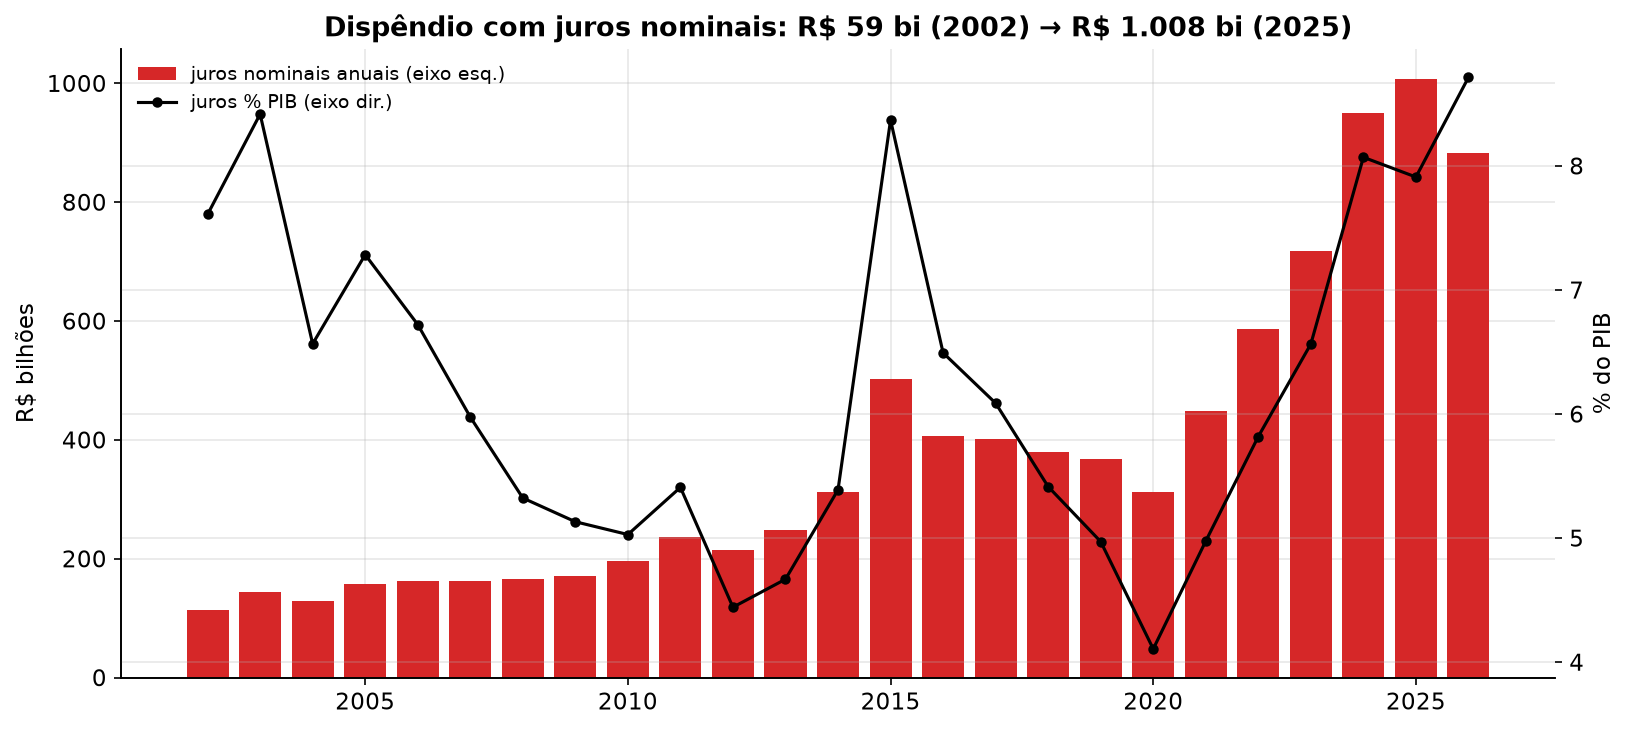
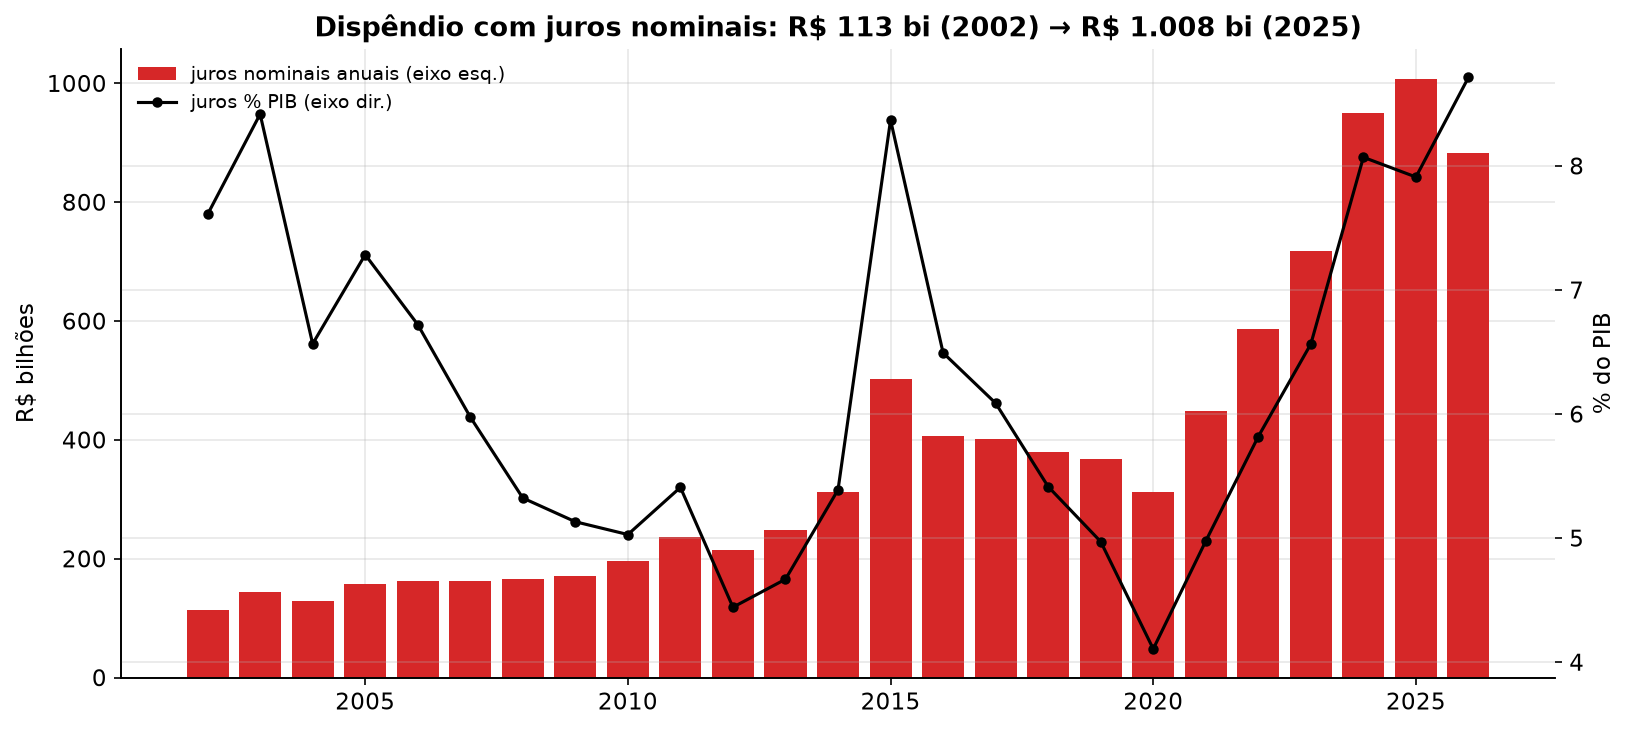
Correções da revisão de IA: identidade da DPF, médias do juro real e números falsos
- Identidade da DPF corrigida para `variação = emissão líquida + juros`
  (notas 6/7 do Anexo 2.9: os resgates já incluem juros pagos): 439 + 880
  = 1.319 bi em 2025 (67% do aumento) e 88% do acumulado 2012–25.
- Juro real ex ante 2024–26 explícito como média ~8,8 p.p. (6,9 → 10,1),
  pico 11,0 em fev/2026; desvio de Taylor como maior entre as janelas
  comparadas, não recorde histórico (MM36: 9,9 em fev/2006).
- 17× → 8,9× (R$ 113 bi → R$ 1.008 bi, título do nb05 calculado de
  juros_mi); swaps 1/3 → 8 dos 18 anos (44%, 2008–25); "2% de juro real
  em 2021" → −0,3% ex ante (média 2019–22: 2,1%); "2–2,2×" → 1,9–3,8×.
- "Melhor resultado nominal desde 2018": janela 2018–2024 (mín. 3,75) →
  não confere; CSV regenerado; 5727/5793 desinvertidos no README.
- nb05 rerodado (só o gráfico do título); nb06/07 intactos.

Changed region(s): [[0.184, 0.0, 0.8282, 0.0603]]

diff --git a/app/app.py b/app/app.py
@@ -407,7 +407,8 @@ elif PAGINA.startswith("P1"):
     st.markdown(
         "A Selic acompanha a inflação **esperada** (Focus), não realizada. O "
         "que é excepcional é a magnitude: juro real ex ante de 2024–2026 em "
-        "~8–9 p.p. com inflação **dentro da meta**."
+        "média ~8,8 p.p. (6,9 em 2024 → 10,1 em 2026), com inflação "
+        "**dentro da meta**."
     )
     st.plotly_chart(fig_selic_inflacao(), use_container_width=True)
     st.plotly_chart(fig_juro_real(), use_container_width=True)
@@ -442,8 +443,9 @@ elif PAGINA.startswith("P3"):
     st.title("P3 · Os juros amortizam a dívida?")
     st.markdown(
         "Identidade dos fatores de variação da DPF (Tesouro, anexo 2.9): "
-        "emissões ≈ resgates + juros — os juros **não amortizam** a dívida; "
-        "**os juros são a dívida nova**."
+        "variação do estoque = emissão líquida + juros — em 2025, R$ 439 bi "
+        "+ R$ 880 bi = R$ 1.319 bi (67% do aumento foram juros). Os juros "
+        "**não amortizam** a dívida; **são a dívida nova**."
     )
     f_ano = st.slider("ano da cascata", 2012, 2025, 2025, key="cascata")
     st.plotly_chart(fig_cascata(f_ano), use_container_width=True)
@@ -505,10 +507,11 @@ elif PAGINA.startswith("P5"):
     )
     st.plotly_chart(fig_juros_swaps(), use_container_width=True)
     st.info(
-        "Um país que praticou **2% de juro real** em 2021 praticou **9%** em "
-        "2025 sem mudança da estrutura produtiva: o patamar é *escolha de "
-        "política*. Quem defende que “não havia alternativa” precisa "
-        "apontar por que ela praticamente inverteu de 2022 para cá."
+        "Em **2021** o juro real ex ante foi **−0,3%** (média 2019–22: 2,1%) "
+        "e em **2025** foi **9,6%**, sem mudança da estrutura produtiva: o "
+        "patamar é *escolha de política*. Quem defende que “não havia "
+        "alternativa” precisa apontar por que ela praticamente inverteu "
+        "de 2022 para cá."
     )
 
 elif PAGINA == "Transparência: lacunas":

diff --git a/src/processa/documentos.py b/src/processa/documentos.py
@@ -654,7 +654,7 @@ def verificacao_febraban() -> pd.DataFrame:
     ipca_dez = ipca[ipca.data.dt.month == 12].set_index("data")["valor"]
     ipca_2025 = float(ipca_dez.loc["2025-12-01"])
     anos = ipca_dez.index.year                      # Index[int], sem .between
-    desde_2019 = ipca_dez[(anos >= 2019) & (anos <= 2024)]
+    desde_2018 = ipca_dez[(anos >= 2018) & (anos <= 2024)]
 
     meta = _serie("meta_selic_copom")
     meta_nota = float(meta[meta.data <= NOTA].valor.iloc[-1])
@@ -673,14 +673,14 @@ def verificacao_febraban() -> pd.DataFrame:
         return {"alegacao": aleg, "artigo": artigo, "nosso_valor": nosso,
                 "unidade": unidade, "fonte_nosso": fonte, "status": status}
 
-    melhor = desde_2019.min() >= ipca_2025
+    melhor = desde_2018.min() >= ipca_2025
     return pd.DataFrame([
         _linha("IPCA 2025 = 4,26%", "4,26", f"{ipca_2025:.2f}",
                "SGS 13522 (dez/2025)",
                "confere (exato)" if abs(ipca_2025 - 4.26) <= 0.01
                else "não confere", "%"),
         _linha("'melhor resultado nominal desde 2018'", "menor desde 2018",
-               f"mín. 2019–2024 = {desde_2019.min():.2f}",
+               f"mín. 2018–2024 = {desde_2018.min():.2f}",
                "SGS 13522 (fechamentos de dezembro)",
                "confere" if melhor else "não confere", "%"),
         _linha("Selic de 15,0% ao ano na nota (12/01/2026)", "15,0",

diff --git a/README.md b/README.md
@@ -21,12 +21,14 @@ ferramenta web de transparência sobre os rendimentos da dívida.
 ### P1 — Os juros altos se justificam? (`notebooks/01_juros_se_justificam.ipynb`)
 - A Selic acompanha a inflação **esperada** (Focus), não a realizada — a direção
   do ciclo não é arbitrária. O que é excepcional é a **magnitude**: juro real
-  ex ante de 2024–2026 em ~8–9 p.p. — nível que historicamente só apareceu com
-  inflação em dois dígitos (2003–04) ou no ajuste pós-2015. Hoje coexiste com
+  ex ante de 2024–2026 em **média de ~8,8 p.p.** (6,9 em 2024 → 10,1 em 2026)
+  — média que desde 2002 só havia sido alcançada em 2002–06, quando a inflação
+  caía de dois dígitos. Hoje coexiste com
   IPCA de ~4,6% — **dentro da meta**.
 - A regra de Taylor simples pediria ~7,5–9% a.a. para Focus ~5%. O **desvio
-  médio 2024–26 (~6,5 p.p.) é o maior de qualquer janela desde 2002**,
-  inclusive maior que o do aperto pós-pandemia (2022–23: 5,2 p.p.).
+  médio 2024–26 (~6,5 p.p.) é o maior entre as janelas comparadas** (2003–14:
+  4,9; 2022–23: 5,2 p.p.), mas **não é recorde histórico**: a MM36 chegou a
+  9,9 p.p. em fev/2006.
 - Atividade (IBC-Br +2–3%) e desemprego em mínimo (5,2–5,3%) não explicam o
   patamar. **Conclusão verificável:** o juro atual é inflação esperada **+
   prêmio institucional adicional** sem contrapeso inflacionário — defender que
@@ -47,11 +49,15 @@ ferramenta web de transparência sobre os rendimentos da dívida.
   STN, foi **negado por sigilo bancário**.
 
 ### P3 — Os juros amortizam a dívida? (`notebooks/03_juros_amortizam.ipynb`)
-- Identidade dos fatores de variação da DPF (Anexo 2.9): `emissões ≈ resgates +
-  juros` — ou seja, **os juros não amortizam a dívida; os juros são a dívida
-  nova**. O juro apropriado de R$ ~880 bi em 2025 virou rolagem, não redução.
-- O dispêndio total gira 2–2,2× o juro apropriado (emissões e resgates) — a
-  máquina de rolagem é muito maior que a dívida nova líquida.
+- Identidade dos fatores de variação da DPF (Anexo 2.9): `variação do estoque =
+  emissão líquida + juros apropriados` — em 2025, R$ 439 bi + R$ 880 bi =
+  R$ 1.319 bi. Os resgates **já incluem os juros pagos** (notas 6 e 7 do
+  anexo), então **os juros não amortizam a dívida; são a dívida nova**: 67% do
+  aumento de 2025 e 88% do acumulado 2012–25 (R$ 5.977 bi dos R$ 6.769 bi)
+  foram juros apropriados.
+- As emissões anuais giram de 1,9 a 3,8× o juro apropriado (2,2× em 2025) e
+  equivalem, em média, a 1,05× os resgates — a máquina de rolagem é muito
+  maior que a dívida nova líquida.
 - O déficit nominal é dominado por juros; o resultado primário é quase neutro
   na maior parte da série.
 
@@ -77,10 +83,11 @@ ferramenta web de transparência sobre os rendimentos da dívida.
   (set/22). O aperto atual começou em **março de 2021** e já estava no
   patamar de hoje em **dez/2022 (8,4%)** — a troca de nível não coincide
   com a troca de mandato.
-- Dispêndio nominal cresceu ~17× entre 2002 e 2025; os saltos de % do PIB
-  ocorrem em 2015–16 e 2024–25, ambos com desvio acima da regra de Taylor.
-- Swaps custaram em ~1/3 dos anos — "imposto cambial" recorrente na conta de
-  juros, contratado em diferentes gestões.
+- Dispêndio nominal cresceu ~8,9× entre 2002 e 2025 (R$ 113 bi → R$ 1.008 bi);
+  os saltos de % do PIB ocorrem em 2015–16 e 2024–25, ambos com desvio
+  acima da regra de Taylor.
+- Swaps geraram custo em 8 dos 18 anos (44%, 2008–25) — "imposto cambial"
+  recorrente na conta de juros, contratado em diferentes gestões.
 - **Não afirmamos intenção aqui**: isso exige documentos (atas, manifestos,
   ofícios) — ver a fase de documentos abaixo.
 
@@ -222,7 +229,7 @@ Séries novas no catálogo para a conferência: **13761** (DBGG R$),
 **13762** (DBGG % PIB), **5727** (resultado nominal/PIB 12m) — 28 séries na
 época; hoje são **34**, com as 6 de crédito do teste da Febraban (abaixo).
 Convenção SGS 5727/5793: **positivo = déficit** (checado em dez/2020:
-+9,24/+13,34; dez/2021: −0,72).
++13,34 nominal / +9,24 primário; dez/2021: +4,26 / −0,72).
 
 **Segundo documento:** *"`BC não levará inflação para a meta e cortará juros
 mesmo sem espaço`, diz Fabio Kanczuk, do ASA"* — NeoFeed (25/7/2025, entrevista
@@ -259,7 +266,7 @@ Textos brutos em `dados/bruto/documentos/`: `febraban_sidney_2026-01-12.txt`,
 | Alegação | Nota | Nós | Veredito |
 | --- | --- | --- | --- |
 | IPCA 2025 = 4,26% | 4,26 | 4,26 (SGS 13522) | **confere (exato)** |
-| "melhor resultado nominal desde 2018" | — | mín. 2019–2024 = 4,31% | confere |
+| "melhor resultado nominal desde 2018" | — | mín. 2018–2024 = 3,75% | **não confere** |
 | Selic de 15,0% ao ano | 15,0 | 15,00 (SGS 432, em 12/1/2026) | confere |
 | Focus projetava 4,90% para 2025 no início de 2025 | 4,90 | 4,99 (pesquisa 2/1/2025) | confere (≈) |
 | "flexibilização… se não em janeiro, a partir de março" | mar/2026 | 1º corte em **19/3/2026** | **confere** |
